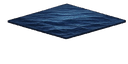
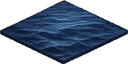
fix: crop to content bbox before resize in grid-split tiles
After background removal on opaque quads, the diamond sits in a 512x512
canvas with transparent padding. Resizing this directly to 128x64 squishes
the diamond to ~40% of the cell height, leaving visible gaps between tiles.

Add getbbox() crop after background removal so the resize starts from the
tight diamond bounding box, filling the full 128x64 output like the
alpha-detected grass tiles do.

Re-split all 6 opaque terrain quads (water, deep_water, shallows, shore,
river, desert) with the fix.

diff --git a/tools/split_spritesheet.py b/tools/split_spritesheet.py
@@ -273,6 +273,10 @@ def main() -> int:
 
         if do_remove_bg:
             sprite = remove_background(sprite, tolerance=args.bg_tolerance)
+            # Crop to bounding box of remaining content so resize preserves aspect ratio
+            content_bbox = sprite.getbbox()
+            if content_bbox:
+                sprite = sprite.crop(content_bbox)
 
         w, h = sprite.size
         label = f"{prefix}_{i:02d}.png"
